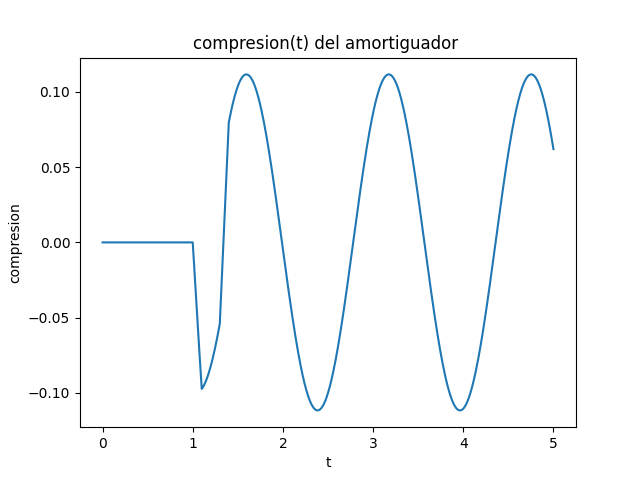
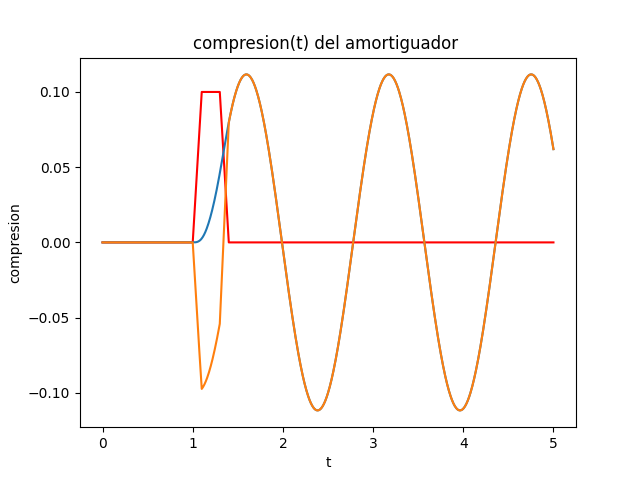
Agrego casos de amortiguador

diff --git a/script_bkp/amortiguador.py b/script_bkp/amortiguador.py
@@ -30,7 +30,7 @@ def aceleracion(c, t, c_prim, u, v):
 
 def maximaCompresion(intervalo, h, extras, c):
     paso = 0
-    aproximada, v = rungekutta2.rungeKuttaO2ConExtras(utils.f2, intervalo, h, extras)
+    aproximada, v = rungekutta2.rungeKuttaO2ConExtras(intervalo, h, extras)
     minimo = 0
     for j in range(int((intervalo / h) + 1)):
         aproximada[j] = (aproximada[j] - float(c(paso)))
@@ -53,29 +53,57 @@ def amortiguar():
     t = np.arange(0, utils.intervalo + utils.h, utils.h)
     extras = [c, c_prim]
 
+    # varianza de lambda
     rungekutta2.imprimirRungeKutta2Extras(v_n, utils.intervalo, utils.h, extras, t, c, 15000, 500)
+    rungekutta2.imprimirRungeKutta2Extras(v_n, utils.intervalo, utils.h, extras, t, c, 15000, 750)
+    rungekutta2.imprimirRungeKutta2Extras(v_n, utils.intervalo, utils.h, extras, t, c, 15000, 1500)
+    rungekutta2.imprimirRungeKutta2Extras(v_n, utils.intervalo, utils.h, extras, t, c, 15000, 1250)
+    rungekutta2.imprimirRungeKutta2Extras(v_n, utils.intervalo, utils.h, extras, t, c, 15000, 1500)
+    rungekutta2.imprimirRungeKutta2Extras(v_n, utils.intervalo, utils.h, extras, t, c, 15000, 1750)
+    rungekutta2.imprimirRungeKutta2Extras(v_n, utils.intervalo, utils.h, extras, t, c, 15000, 2000)
     
-    # AGREGAR MÁS CASOS
+    # varianza de k
+    rungekutta2.imprimirRungeKutta2Extras(v_n, utils.intervalo, utils.h, extras, t, c, 15000, 500)
+    rungekutta2.imprimirRungeKutta2Extras(v_n, utils.intervalo, utils.h, extras, t, c, 20000, 500)
+    rungekutta2.imprimirRungeKutta2Extras(v_n, utils.intervalo, utils.h, extras, t, c, 25000, 500)
+    rungekutta2.imprimirRungeKutta2Extras(v_n, utils.intervalo, utils.h, extras, t, c, 30000, 500)
+    rungekutta2.imprimirRungeKutta2Extras(v_n, utils.intervalo, utils.h, extras, t, c, 35000, 500)
+    rungekutta2.imprimirRungeKutta2Extras(v_n, utils.intervalo, utils.h, extras, t, c, 40000, 500)
 
-    for i in range(int(utils.lambdaV.shape[0])-1):
-        for j in range(int(utils.kV.shape[0])-1):
+    # prueba de otra varianza, fidelidad de datos
+    
+    rungekutta2.imprimirRungeKutta2Extras(v_n, utils.intervalo, utils.h, extras, t, c, 30000, 500)
+    rungekutta2.imprimirRungeKutta2Extras(v_n, utils.intervalo, utils.h, extras, t, c, 30000, 1000)
+    rungekutta2.imprimirRungeKutta2Extras(v_n, utils.intervalo, utils.h, extras, t, c, 30000, 1500)
+    rungekutta2.imprimirRungeKutta2Extras(v_n, utils.intervalo, utils.h, extras, t, c, 30000, 2000)
+    rungekutta2.imprimirRungeKutta2Extras(v_n, utils.intervalo, utils.h, extras, t, c, 30000, 2500)
+    rungekutta2.imprimirRungeKutta2Extras(v_n, utils.intervalo, utils.h, extras, t, c, 30000, 3000)
+    rungekutta2.imprimirRungeKutta2Extras(v_n, utils.intervalo, utils.h, extras, t, c, 30000, 3500)
+
+    lambdaV = utils.lambdaV
+    kV = utils.kV
+    lambdaAmortiguado = utils.lambdaAmortiguado
+    kAmortiguado = utils.kAmortiguado
+    compresionFinal = utils.compresionFinal
+    for i in range(int(lambdaV.shape[0])-1):
+        for j in range(int(kV.shape[0])-1):
             act = 0
             act = maximaCompresion(utils.intervalo, utils.h, extras, c)
             if act >= utils.maxiCompresion:
-                ponderacionActual = utils.lambdaV[i] / 750 + utils.kV[j] / utils.k
+                ponderacionActual = lambdaV[i] / 750 + kV[j] / utils.k
                 if ponderacionActual < minimaPonderacion:
                     minimaPonderacion = ponderacionActual
-                    utils.lambdaAmortiguado = utils.lambdaV[i]
-                    utils.kAmortiguado = utils.kV[j]
-                    utils.compresionFinal = act
+                    lambdaAmortiguado = lambdaV[i]
+                    kAmortiguado = kV[j]
+                    compresionFinal = act
                     
-    print('K elegido = ' + str(utils.kAmortiguado) + ' y lambda electo = ' + str(utils.lambdaAmortiguado) +
-          'con compresion = ' + str(utils.compresionFinal))
+    print('K elegido = ' + str(kAmortiguado) + ' y lambda electo = ' + str(lambdaAmortiguado) +
+          'con compresion = ' + str(compresionFinal))
     
-    utils.kAmortiguado = 80500
-    utils.lambdaAmortiguado = 4550
+    kAmortiguado = 80500
+    lambdaAmortiguado = 4550
     t = np.arange(0, utils.intervalo + utils.h, utils.h)
-    u, v = rungekutta2.imprimirRungeKutta2Extras(v_n, utils.intervalo, utils.h, extras, t, c, utils.kAmortiguado, utils.lambdaAmortiguado)
+    u, v = rungekutta2.imprimirRungeKutta2Extras(v_n, utils.intervalo, utils.h, extras, t, c, kAmortiguado, lambdaAmortiguado)
 
     afun = np.vectorize(aceleracion)
     x = np.arange(0, utils.intervalo + utils.h, utils.h)
@@ -83,6 +111,6 @@ def amortiguar():
     plt.xlabel('t')
     plt.ylabel('y\'\'(t)')
     plt.title('Aceleracion')
-    plt.plot(x, y, 'r')
-    plt.show()
+    #plt.plot(x, y, 'r')
+    #plt.show()
     return

diff --git a/script_bkp/rungekutta2.py b/script_bkp/rungekutta2.py
@@ -60,13 +60,13 @@ def iterarRK2(aproximacion, intervalo, h):
     return
 
 def imprimirRungeKutta2(f, intervalo, h, t):
-    aproximacion = runge_kutta_segundo_orden(f, intervalo, h)
+    aproximacion = imprimirRungeKutta2Extras(f, intervalo, h)
     armarGraficoRK2OK(aproximacion, t, h, utils.y_t_RK2, utils.y_nombre_RK2)
     iterarRK2(aproximacion, intervalo, h)
     armarGraficoRK2Error(aproximacion, t, h, utils.e_t_RK2, utils.e_nombre_RK2)
     return
 
-def rungeKuttaO2ConExtras(f, intervalo, paso, extras):
+def rungeKuttaO2ConExtras(intervalo, paso, extras):
     cantidad = intervalo/paso + 1 
     u = np.zeros(int(cantidad), dtype=float)
     v = np.zeros(int(cantidad), dtype=float)
@@ -76,12 +76,18 @@ def rungeKuttaO2ConExtras(f, intervalo, paso, extras):
     n = 0
     while n < cantidad-1:
         u_actual_predictor = (u[(n)] + paso * v[n])
-        v_actual_predictor = (v[n] + paso * f(u[n], extras[0], i, v[n], extras[1]))
+        v_actual_predictor = (v[n] + paso * f2(u[n], extras[0], i, v[n], extras[1]))
         u[(n+1)] = (u[n] + (paso/2) * (v[n] + v_actual_predictor))
-        v[n+1] = (v[n] + (paso/2) * (f(u[n], extras[0], i, v[n], extras[1]) + f(u_actual_predictor, extras[0], i+paso, v_actual_predictor, extras[1])))
+        v[n+1] = (v[n] + (paso/2) * (f2(u[n], extras[0], i, v[n], extras[1]) + f2(u_actual_predictor, extras[0], i+paso, v_actual_predictor, extras[1])))
         n += 1
         i += paso
     return u, v
+
+
+def f2(y,c,t,y_prim,c_prim):
+    lambda_ = 750
+    res =  (utils.k/utils.m)*(c(t)-y) + (lambda_/utils.m) * (c_prim(t) - y_prim)
+    return res
 
 def imprimirRungeKutta2Extras(vfun, intervalo, h, extras, t, c, k, lam):
     x = np.arange(0, intervalo+h, h)
@@ -89,15 +95,15 @@ def imprimirRungeKutta2Extras(vfun, intervalo, h, extras, t, c, k, lam):
     plt.plot(x, y, 'r')
     
     paso = 0
-    aproximada, v = rungeKuttaO2ConExtras(utils.f2, intervalo, h, extras)
+    aproximada, v = rungeKuttaO2ConExtras(intervalo, h, extras)
     u = np.copy(aproximada)
     plt.plot(t, aproximada)
     plt.xlabel('t')
     plt.ylabel('y')
     plt.title('y(t) RK2 k = ' + str(k))
     name = 'RK2Amortiguado' + str(h) + '.png'
-    plt.savefig(name)
-    plt.show()
+    #plt.savefig(name)
+    #plt.show()
     minimo = 0
     for j in range(int((intervalo/h) + 1)):
         aproximada[j] = (aproximada[j] - float(c(paso)))
@@ -110,6 +116,6 @@ def imprimirRungeKutta2Extras(vfun, intervalo, h, extras, t, c, k, lam):
     plt.ylabel('compresion')
     plt.title('compresion(t) del amortiguador ')
     name = 'Compresion' + str(h) + '.png'
-    plt.savefig(name)
-    plt.show()
+    #plt.savefig(name)
+    #plt.show()
     return u, v

diff --git a/script_bkp/utils.py b/script_bkp/utils.py
@@ -51,7 +51,3 @@ kAmortiguado = 25000
 lambdaV = np.arange(150,12000,50)
 kV = np.arange(2500,100000,1000)
 
-
-def f2(y,c,t,y_prim,c_prim):
-    res =  (k/m)*(c(t)-y) + (lambda_/m) * (c_prim(t) - y_prim)
-    return res

diff --git a/script_bkp/main.py b/script_bkp/main.py
@@ -2,7 +2,7 @@ import amortiguador
 import sinamortiguar
 def main():
 
-    sinamortiguar.sinAmortiguar()
+    #sinamortiguar.sinAmortiguar()
     amortiguador.amortiguar()
     return
 
